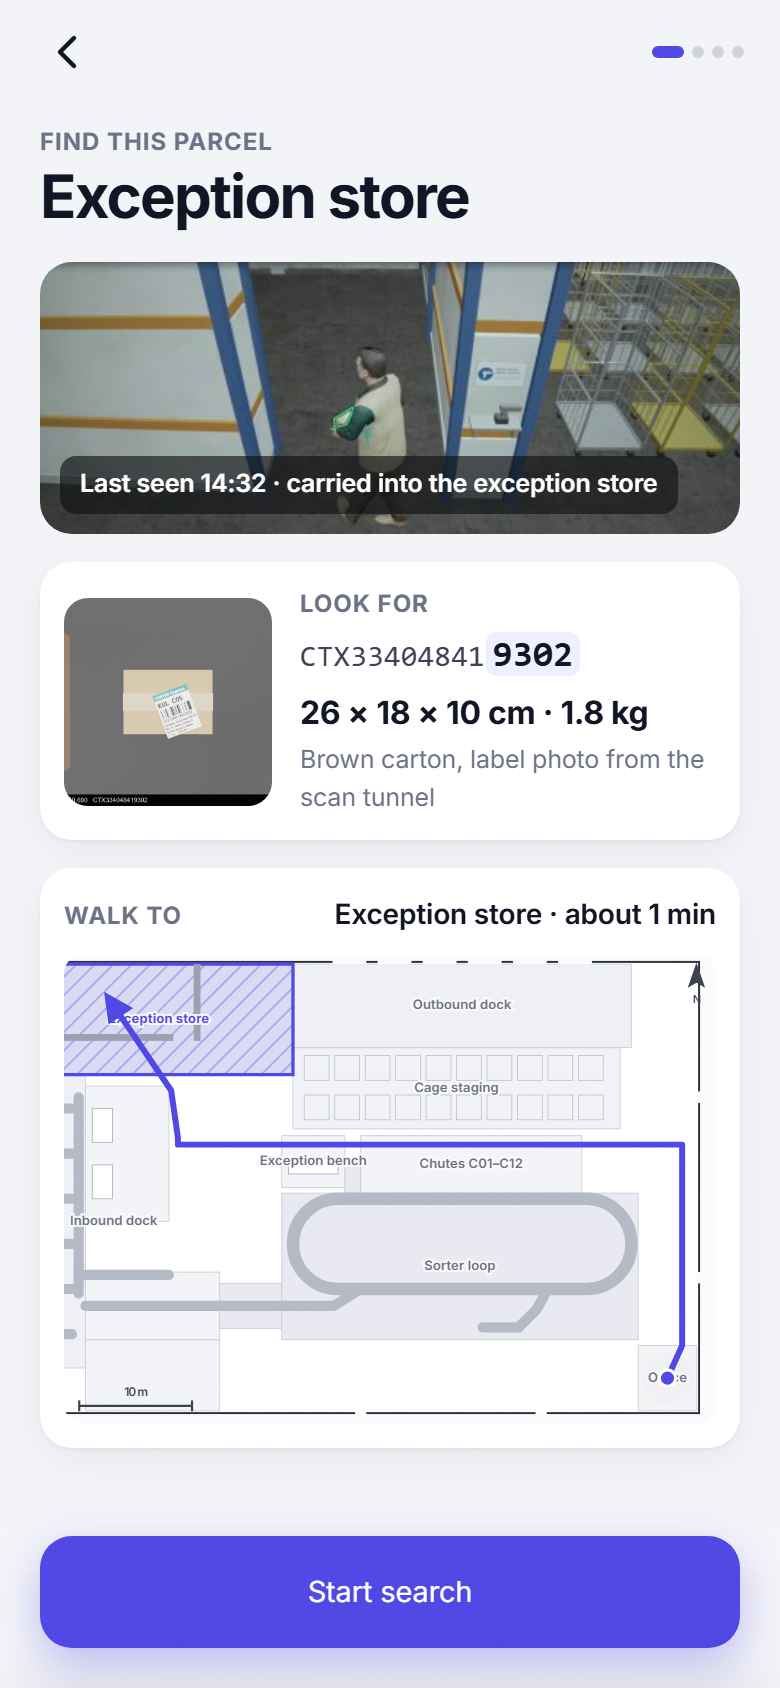
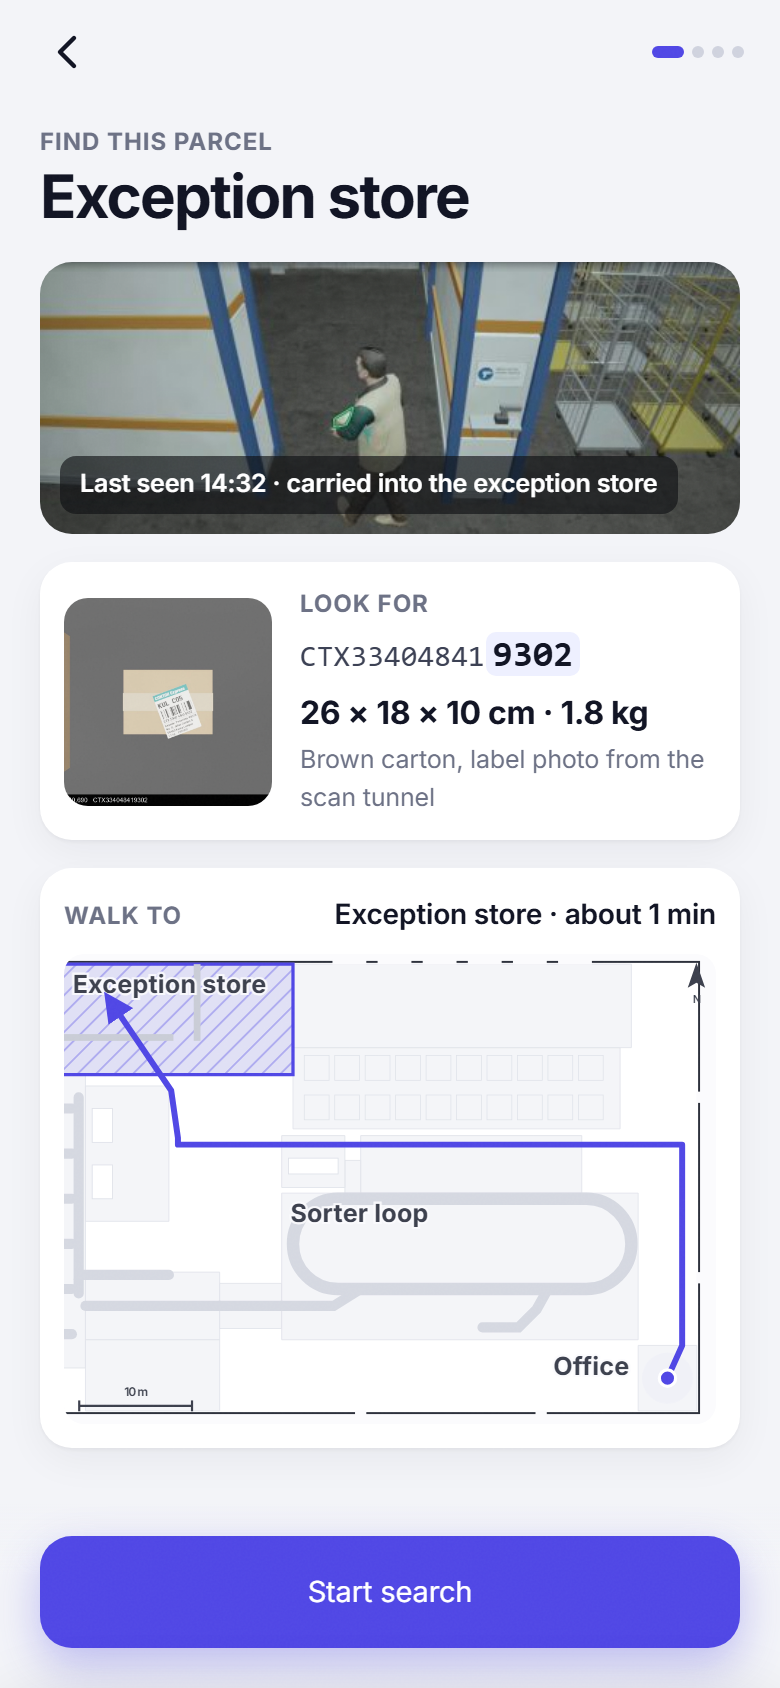
Route map: zone names clear of the route's ends

diff --git a/frontend/src/components/plan/FloorPlan.tsx b/frontend/src/components/plan/FloorPlan.tsx
@@ -126,10 +126,17 @@ export default function FloorPlan(p: Props) {
         })}
         {/* labels */}
         {hub.zones.filter((z) => SHORT[z.id] && showLabel(z.id)).map((z) => {
-          const [cx0, cy] = centroid(z.polygons[0]);
+          const [cx0, cy0] = centroid(z.polygons[0]);
           const half = SHORT[z.id].length * fs * 0.29; // keep the whole label inside the frame
-          const cx = Math.min(Math.max(cx0, box.x0 + half + 0.4 * k), box.x1 - half - 0.4 * k);
-          return <text key={z.id} x={X(cx)} y={Y(cy)} fontSize={fs} className={`fp-label${z.id === p.highlight ? " fp-label-hl" : ""}`} textAnchor="middle" dominantBaseline="middle">{SHORT[z.id]}</text>;
+          // on a dimmed route map the route starts and ends at zone centres: name the zone in its top-left corner instead
+          const corner = p.dim && p.labelIds?.includes(z.id);
+          const xs = z.polygons[0].map((q) => q[0]), ys = z.polygons[0].map((q) => q[1]);
+          const left = Math.max(Math.min(...xs), box.x0) + 0.8 * k;
+          const out = corner && left + half * 2 > box.x1 - 0.4 * k; // would run off the frame: sit just left of the zone instead
+          const cx = !corner ? Math.min(Math.max(cx0, box.x0 + half + 0.4 * k), box.x1 - half - 0.4 * k) : out ? Math.min(...xs) - 0.8 * k : left;
+          const cy = corner ? Math.min(Math.max(...ys), box.y1) - fs * 0.9 : cy0;
+          return <text key={z.id} x={X(cx)} y={Y(cy)} fontSize={fs} className={`fp-label${z.id === p.highlight ? " fp-label-hl" : ""}`}
+            textAnchor={!corner ? "middle" : out ? "end" : "start"} dominantBaseline="middle">{SHORT[z.id]}</text>;
         })}
         {/* the route */}
         {p.legs?.map((g, i) => (

diff --git a/review/log.md b/review/log.md
@@ -536,3 +536,4 @@
 2026-11-03 04:36 · loop · Spoor Floor (reviewer 04:33, 6 fixes): voice note under the place being checked (was under the bar); status bar on the hub's clock (scan log time, ticking), task line 'Sent by the hub supervisor' (no real-world time); waiting time from the case data (4 days) everywhere, READY asks Rexton to change the script's 'Two weeks'; scan: with no camera the viewfinder shows the label to point at, the strip shows the real camera path (Chromium fake camera fed the label photo); walk map: only Office / target / sorter named at readable size, the rest of the hub greyed; disabled primary readable (grey fill, dark text). Strip review/shots/tue/golook/flow.png.
 2026-11-03 04:42 · build · Production build (NEXT_DIST=.next-prod) passes with the new routes (/floor/[caseId], not-found); tsconfig restored after the build; the stale :3001 server (pid 36972, next start) stopped and restarted on the new build: hub, floor, go look, report 200, unknown 404. Go look: supervisor line drops the real-world send time (hub clock mismatch).
 2026-11-03 04:47 · loop · Report print (A4 PDF via Export PDF): the app sidebar / top bar / case steps printed on page 1 (wrong class names in the print rules) - hidden; black page margins came from the app's dark color-scheme - light in print; a table row ran into the 'To fix' note (Chrome fragments grid items) - sections print as block flow, rows don't split. 6 clean pages: review/shots/tue/report/report_print.pdf.
+2026-11-03 04:49 · loop · Spoor Floor walk map: named zones on the dimmed route map are labelled in their corner (the route's arrow and the you-are-here dot covered 'Exception store' and 'Office'); a label that would leave the frame sits just outside its zone. Entrance stagger (35 ms, 6 max) on screen blocks.
